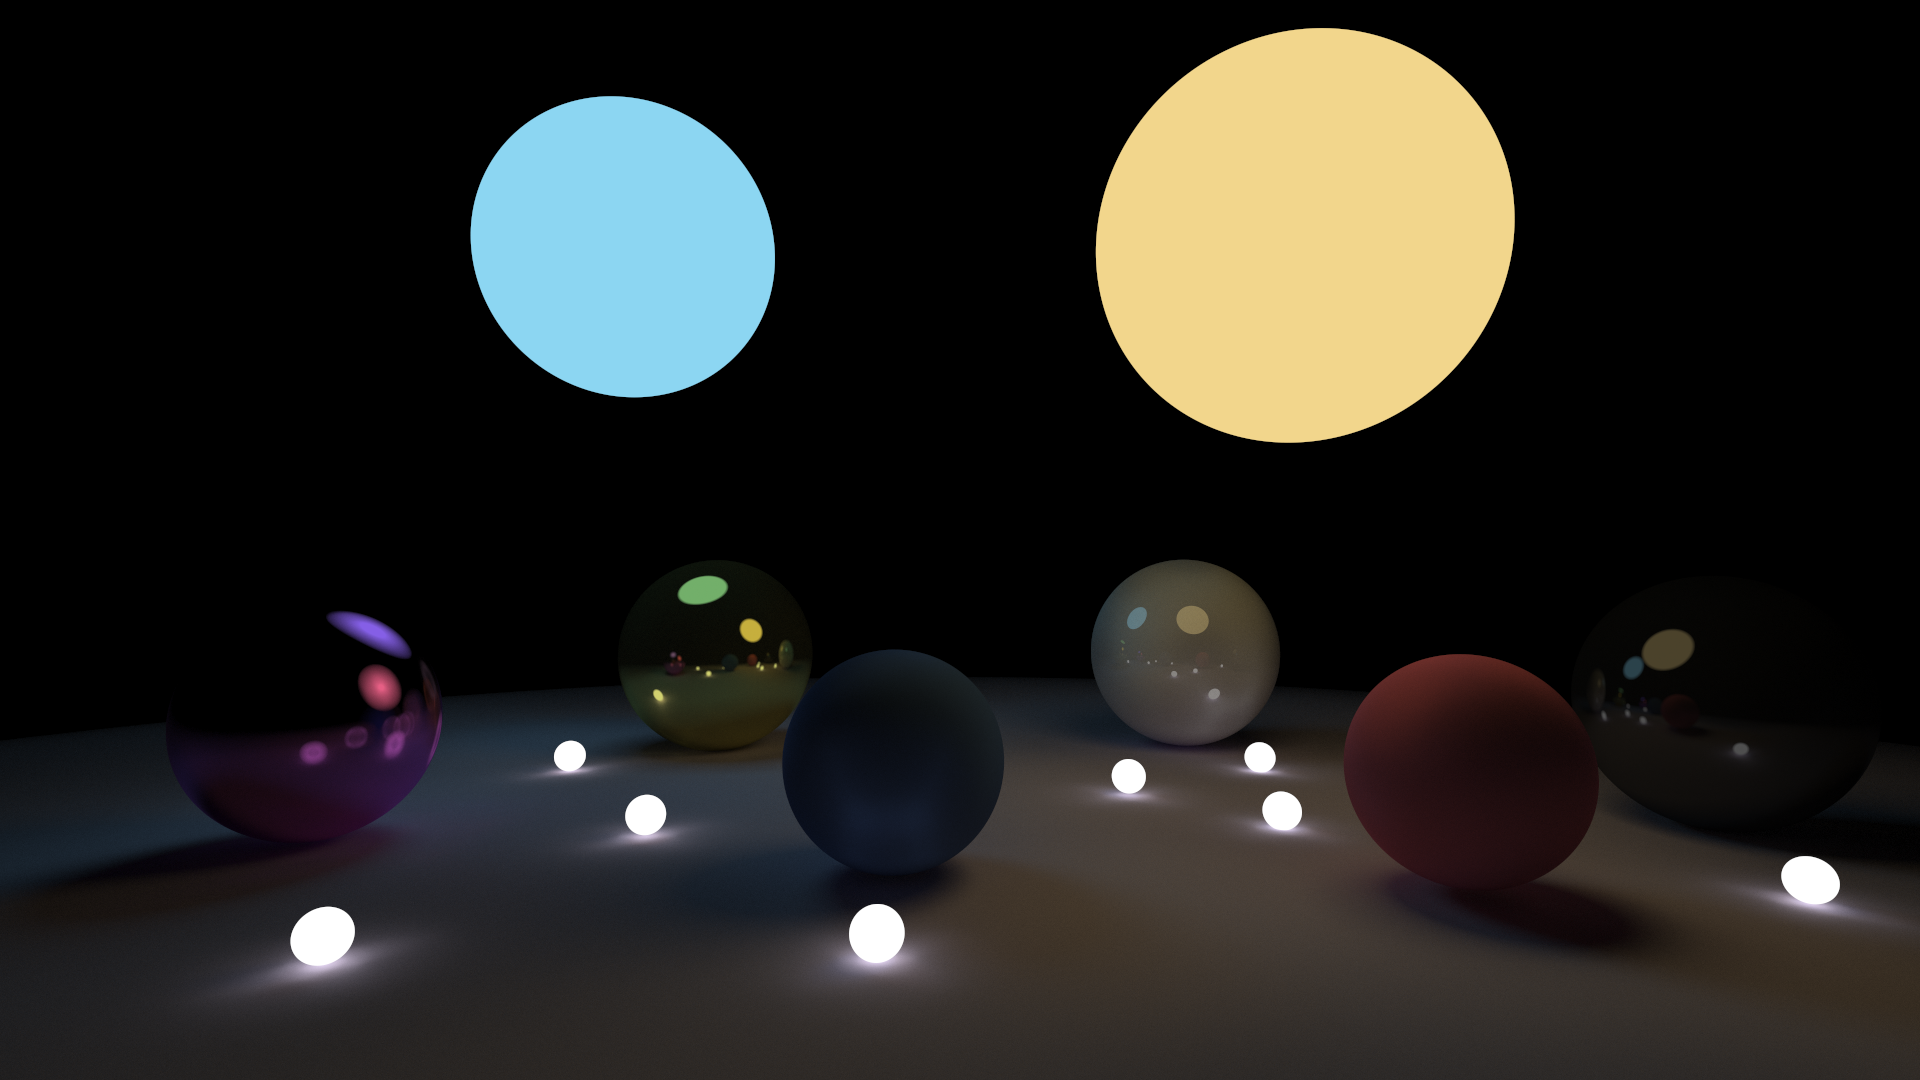
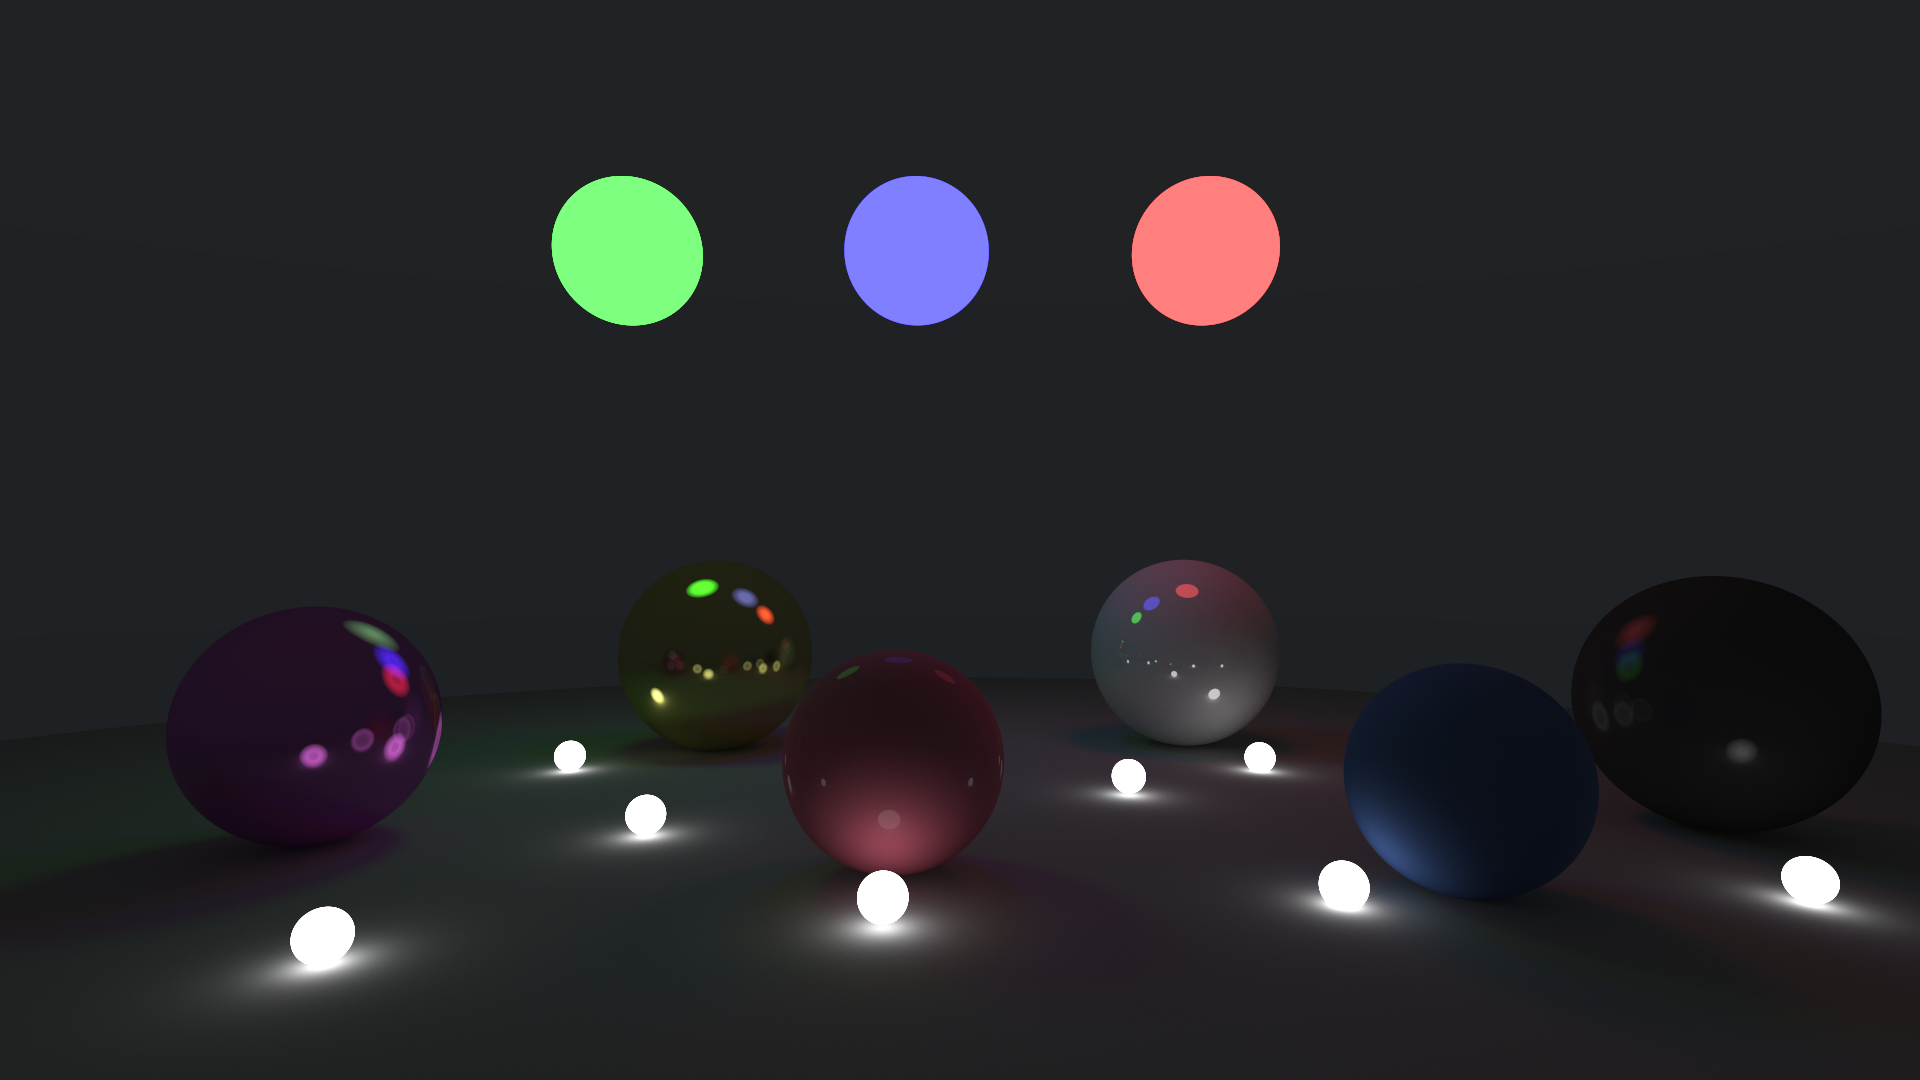
feat: add independent specular color (separate from diffuse)

diff --git a/src/renderer.cpp b/src/renderer.cpp
@@ -1,14 +1,13 @@
 #include "path_tracer/renderer.h"
-#include "path_tracer/utils.h"
 #include "path_tracer/vec3.h"
 
 void Renderer::render(const scene& scene, const camera& camera) {
 	
-	float height = camera.image_height;
-	float width = camera.image_width;
-	float samples_per_pixel = camera.samples_per_pixel;
-	float pixel_samples_scale = 1/samples_per_pixel;
-	float max_depth = camera.max_depth;
+	int height = camera.image_height;
+	int width = camera.image_width;
+	int samples_per_pixel = camera.samples_per_pixel;
+	float pixel_samples_scale = 1.0/samples_per_pixel;
+	int max_depth = camera.max_depth;
 
 	std::cout << "P3\n" << width << ' ' << height << "\n255\n";
 
@@ -44,15 +43,30 @@ color Renderer::trace_ray(const scene& scene, const ray& r, int depth) {
 			bool is_specular_bounce = material.specular_probability >= utils::random_double();
 
 			vec3 diffuse_direction = rec.normal + random_unit_vector();
-			vec3 specular_direction = reflect(bouncing_ray.direction(), rec.normal);
-			vec3 bounce_direction = lerp(material.smoothness * is_specular_bounce, specular_direction, diffuse_direction);
 
-			bouncing_ray.dir = bounce_direction;
-			bouncing_ray.orig = rec.hit_point;
+			vec3 bounce_dir;
+			if (is_specular_bounce) {
 
-			vec3 emitted_light = material.emission_color * material.emission_strength;
-			incoming_light += emitted_light * ray_color;
-			ray_color *= rec.mat.albedo; //component wise multiplication;
+				vec3 specular_direction = reflect(bouncing_ray.direction(), rec.normal);
+				bounce_dir = lerp(material.smoothness, diffuse_direction, specular_direction);
+				bouncing_ray.dir = unit_vector(bounce_dir);
+				bouncing_ray.orig = rec.hit_point;
+
+				vec3 emitted_light = material.emission_color * material.emission_strength;
+				incoming_light += emitted_light * ray_color;
+
+				ray_color *= material.specular_color;
+			} else {
+
+				bounce_dir = diffuse_direction;
+				bouncing_ray.dir = unit_vector(bounce_dir);
+				bouncing_ray.orig = rec.hit_point;
+
+				vec3 emitted_light = material.emission_color * material.emission_strength;
+				incoming_light += emitted_light * ray_color;
+
+				ray_color *= material.albedo;
+			}
 		}
 		else {
 			vec3 unit_direction = unit_vector(bouncing_ray.direction());
@@ -106,9 +120,9 @@ Renderer::hit_record Renderer::hit_sphere(const sphere& sphere, const ray& r) {
 	auto sqrtd = std::sqrt(discriminant);
 	
 	auto root = (h - sqrtd) / a;
-	if (root < 0.001) {
+	if (root < 0.00000001) {
 		root = (h + sqrtd) / a;
-		if(root < 0.001) {
+		if(root < 0.00000001) {
 			return rec;	
 		}
 	}

diff --git a/main.cpp b/main.cpp
@@ -6,7 +6,9 @@
 
 int main(int argc, char* argv[]) {
 
-	SceneLoader loader("demos/emissive_demo.yaml");
+	std::string scene_path = argv[1];
+
+	SceneLoader loader(scene_path);
 
 	scene world;
 	loader.build_world(world);
@@ -15,7 +17,7 @@ int main(int argc, char* argv[]) {
 	camera cam;
 	loader.build_camera(cam);
 
-	std::string set_camera = argv[1];
+	std::string set_camera = argv[2];
 
 	if (set_camera == "0") {
 		cam.aspect_ratio = 16.0 / 9.0;
@@ -27,14 +29,14 @@ int main(int argc, char* argv[]) {
 	} else if (set_camera == "1") {
 		cam.aspect_ratio = 16.0 / 9.0;
 		cam.image_width = 900;
-		cam.samples_per_pixel = 600;
+		cam.samples_per_pixel = 900;
 		cam.max_depth = 50;
 
 	
 	} else if (set_camera == "2") {
 		cam.aspect_ratio = 16.0 / 9.0;
 		cam.image_width = 1920;
-		cam.samples_per_pixel = 5000;
+		cam.samples_per_pixel = 25000;
 		cam.max_depth = 50;
 	}
 

diff --git a/include/path_tracer/scene_loader.h b/include/path_tracer/scene_loader.h
@@ -67,6 +67,7 @@ private:
 				mat.smoothness = data["smoothness"].as<double>(0.0);
 				mat.specular_probability = data["specular_probability"].as<double>(0.0);
 
+				mat.specular_color = data["specular_color"].as<vec3>(vec3(1.0, 1.0, 1.0));
 				mat.emission_strength = data["emission_strength"].as<double>(0.0);
 				mat.emission_color = data["emission_color"].as<vec3>(vec3(1.0, 1.0, 1.0));
 
@@ -98,7 +99,7 @@ private:
 		auto cam_node = m_scene_file["camera"];
 
 		cam.center = cam_node["center"].as<vec3>(vec3(0, 0, 0));
-		cam.focal_length = cam_node["focal_length"].as<double>(1.0);
+		cam.focal_length = cam_node["focal_length"].as<double>(2.0);
 	}
 };
 

diff --git a/include/path_tracer/scene.h b/include/path_tracer/scene.h
@@ -6,6 +6,7 @@
 struct material {
 public:
 	vec3 albedo{0.5, 0.5, 0.5};
+	vec3 specular_color{1, 1, 1};
 	vec3 emission_color{0, 0, 0};
 	float smoothness = 0;
 	float specular_probability = 0;

diff --git a/include/path_tracer/renderer.h b/include/path_tracer/renderer.h
@@ -5,6 +5,7 @@
 #include "scene.h"
 #include "ray.h"
 #include "color.h"
+#include "path_tracer/vec3.h"
 
 class Renderer {
 private:
